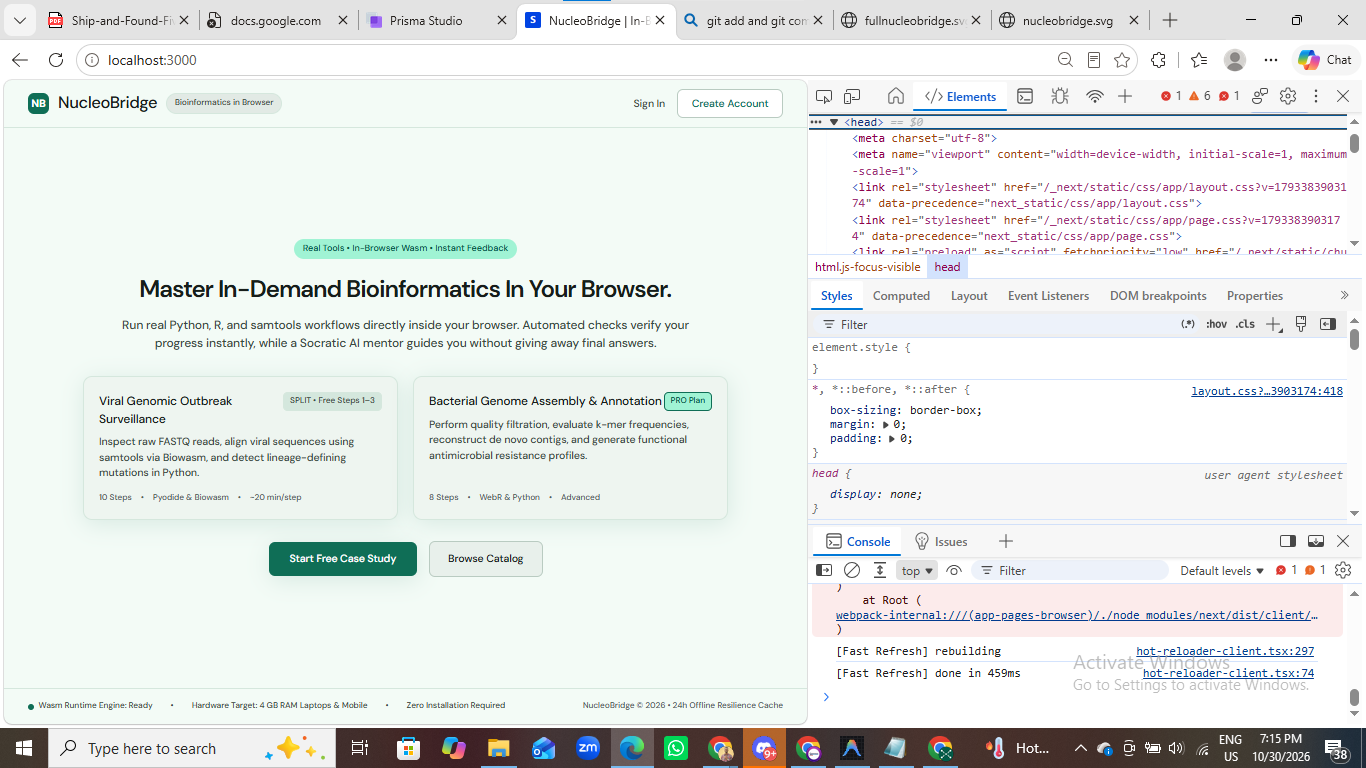
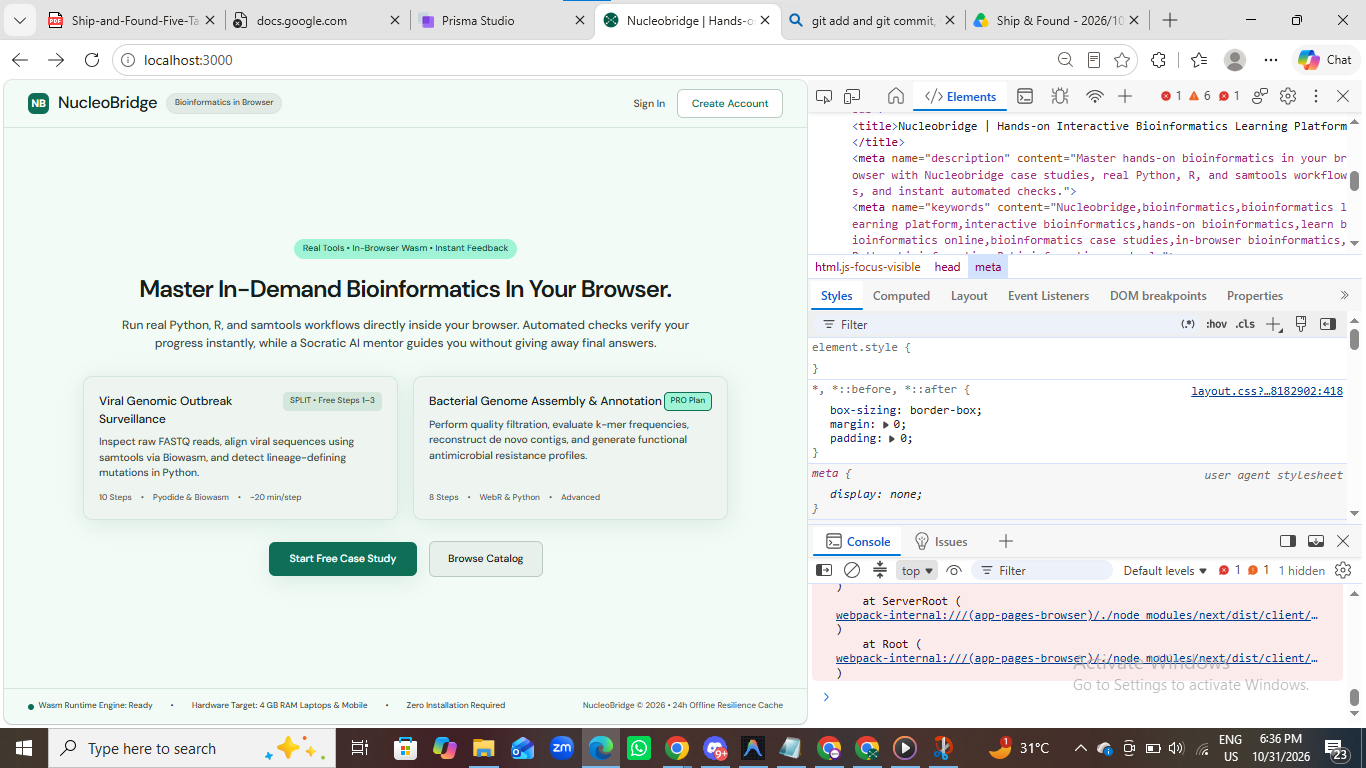
feat: Make the title in the head dynamic according to the page the user is viewing

diff --git a/src/app/layout.tsx b/src/app/layout.tsx
@@ -3,8 +3,8 @@ import './globals.css';
 
 export const metadata: Metadata = {
   title: {
-    default: 'Nucleobridge: Hands-on Interactive Bioinformatics Learning Platform',
-    template: '%s | Nucleobridge',
+    default: 'Nucleobridge | Hands-on Interactive Bioinformatics Learning Platform',
+    template: 'Nucleobridge | %s',
   },
   description: 'Nucleobridge: Hands-on Interactive Bioinformatics Learning Platform',
   openGraph: {

diff --git a/src/app/forgot-password/layout.tsx b/src/app/forgot-password/layout.tsx
@@ -1,0 +1,10 @@
+import type { Metadata } from 'next';
+import type { ReactNode } from 'react';
+
+export const metadata: Metadata = {
+  title: 'Forgot Password',
+};
+
+export default function ForgotPasswordLayout({ children }: { children: ReactNode }) {
+  return <>{children}</>;
+}

diff --git a/src/app/reset-password/layout.tsx b/src/app/reset-password/layout.tsx
@@ -1,0 +1,10 @@
+import type { Metadata } from 'next';
+import type { ReactNode } from 'react';
+
+export const metadata: Metadata = {
+  title: 'Reset Password',
+};
+
+export default function ResetPasswordLayout({ children }: { children: ReactNode }) {
+  return <>{children}</>;
+}

diff --git a/src/app/dashboard/layout.tsx b/src/app/dashboard/layout.tsx
@@ -1,0 +1,10 @@
+import type { Metadata } from 'next';
+import type { ReactNode } from 'react';
+
+export const metadata: Metadata = {
+  title: 'Dashboard',
+};
+
+export default function DashboardLayout({ children }: { children: ReactNode }) {
+  return <>{children}</>;
+}

diff --git a/src/app/login/layout.tsx b/src/app/login/layout.tsx
@@ -1,0 +1,10 @@
+import type { Metadata } from 'next';
+import type { ReactNode } from 'react';
+
+export const metadata: Metadata = {
+  title: 'Sign In',
+};
+
+export default function LoginLayout({ children }: { children: ReactNode }) {
+  return <>{children}</>;
+}

diff --git a/src/app/signup/layout.tsx b/src/app/signup/layout.tsx
@@ -1,0 +1,10 @@
+import type { Metadata } from 'next';
+import type { ReactNode } from 'react';
+
+export const metadata: Metadata = {
+  title: 'Signup',
+};
+
+export default function SignupLayout({ children }: { children: ReactNode }) {
+  return <>{children}</>;
+}
